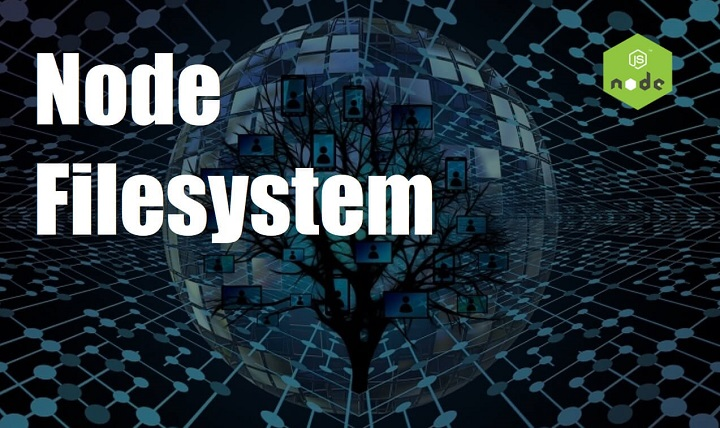
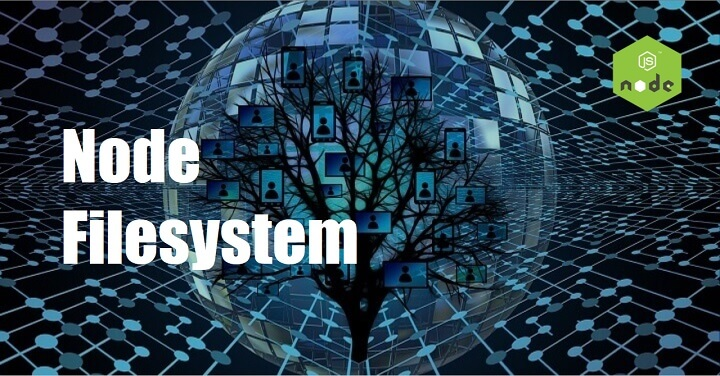
updated site og and twitter image

diff --git a/src/components/seo.js b/src/components/seo.js
@@ -14,7 +14,7 @@ function SEO({ description, title, slug, frontmatter, isBlogPost, isVideoPost, c
             author
           }
         }
-        logo: file(absolutePath: { regex: "/rocketlogo.jpg/" }) {
+        logo: file(absolutePath: { regex: "/site-logo.jpg/" }) {
           childImageSharp {
             fluid(maxWidth: 400) {
               ...GatsbyImageSharpFluid

diff --git a/content/tutorials/2020-06-29-hosting-web-apps-with-netlify.md b/content/tutorials/2020-06-29-hosting-web-apps-with-netlify.md
@@ -12,7 +12,7 @@ tags:
   - Netlify
   - Hosting
   - Tools
-featuredImage: /img/hosting-netlify-sunrise.jpg
+featuredImage: /img/hosting_netlify_sunrise.jpg
 ---
 ## What is Netlify?
 
